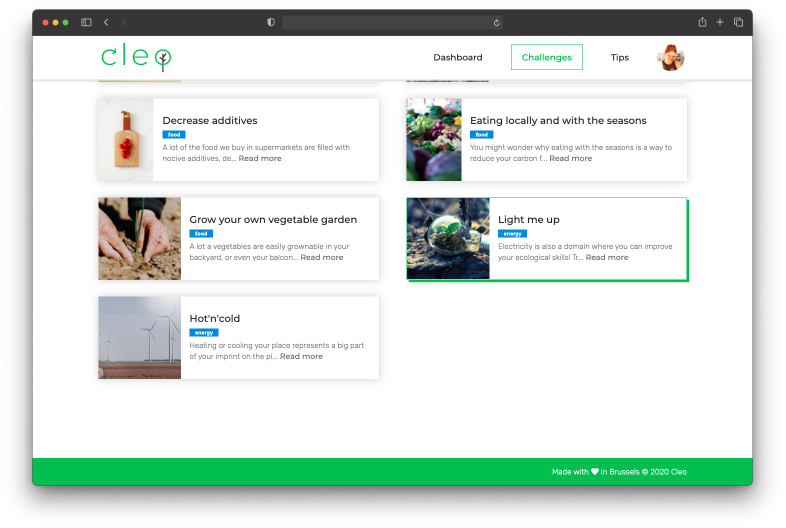
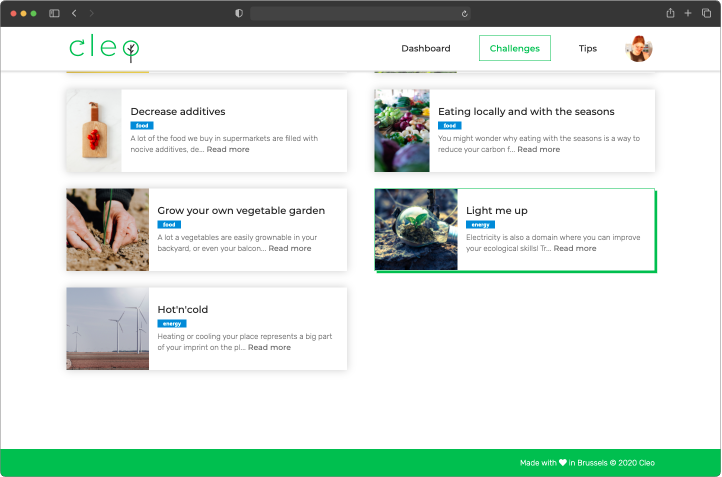
Created app screenshots

diff --git a/pages/projects/cleo.html b/pages/projects/cleo.html
@@ -30,6 +30,7 @@
       <p class="tag-outline tag tag-dark-border">2020</p>
       <a href="http://www.cleoapp.org/" target="_blank"><p class="tag-outline tag tag-dark-border tag-green">View site</p></a>
     </div>
+    <img src="../../assets/images/cleo-home-1.png">
     <div class="tag-block">
       <div class="tags tags-left">
         <p class="tag-outline tag tag-dark-border">Category &#62;</p>
@@ -46,7 +47,7 @@
         <p class="tag-outline">CSS</p>
         <p class="tag-outline">PostgreSQL</p>
       </div>
-    <div>
+    </div>
     <div>
       <p>
         Clea is a Ruby on Rails app built in 10 days during Le Wagon's bootcamp with three other
